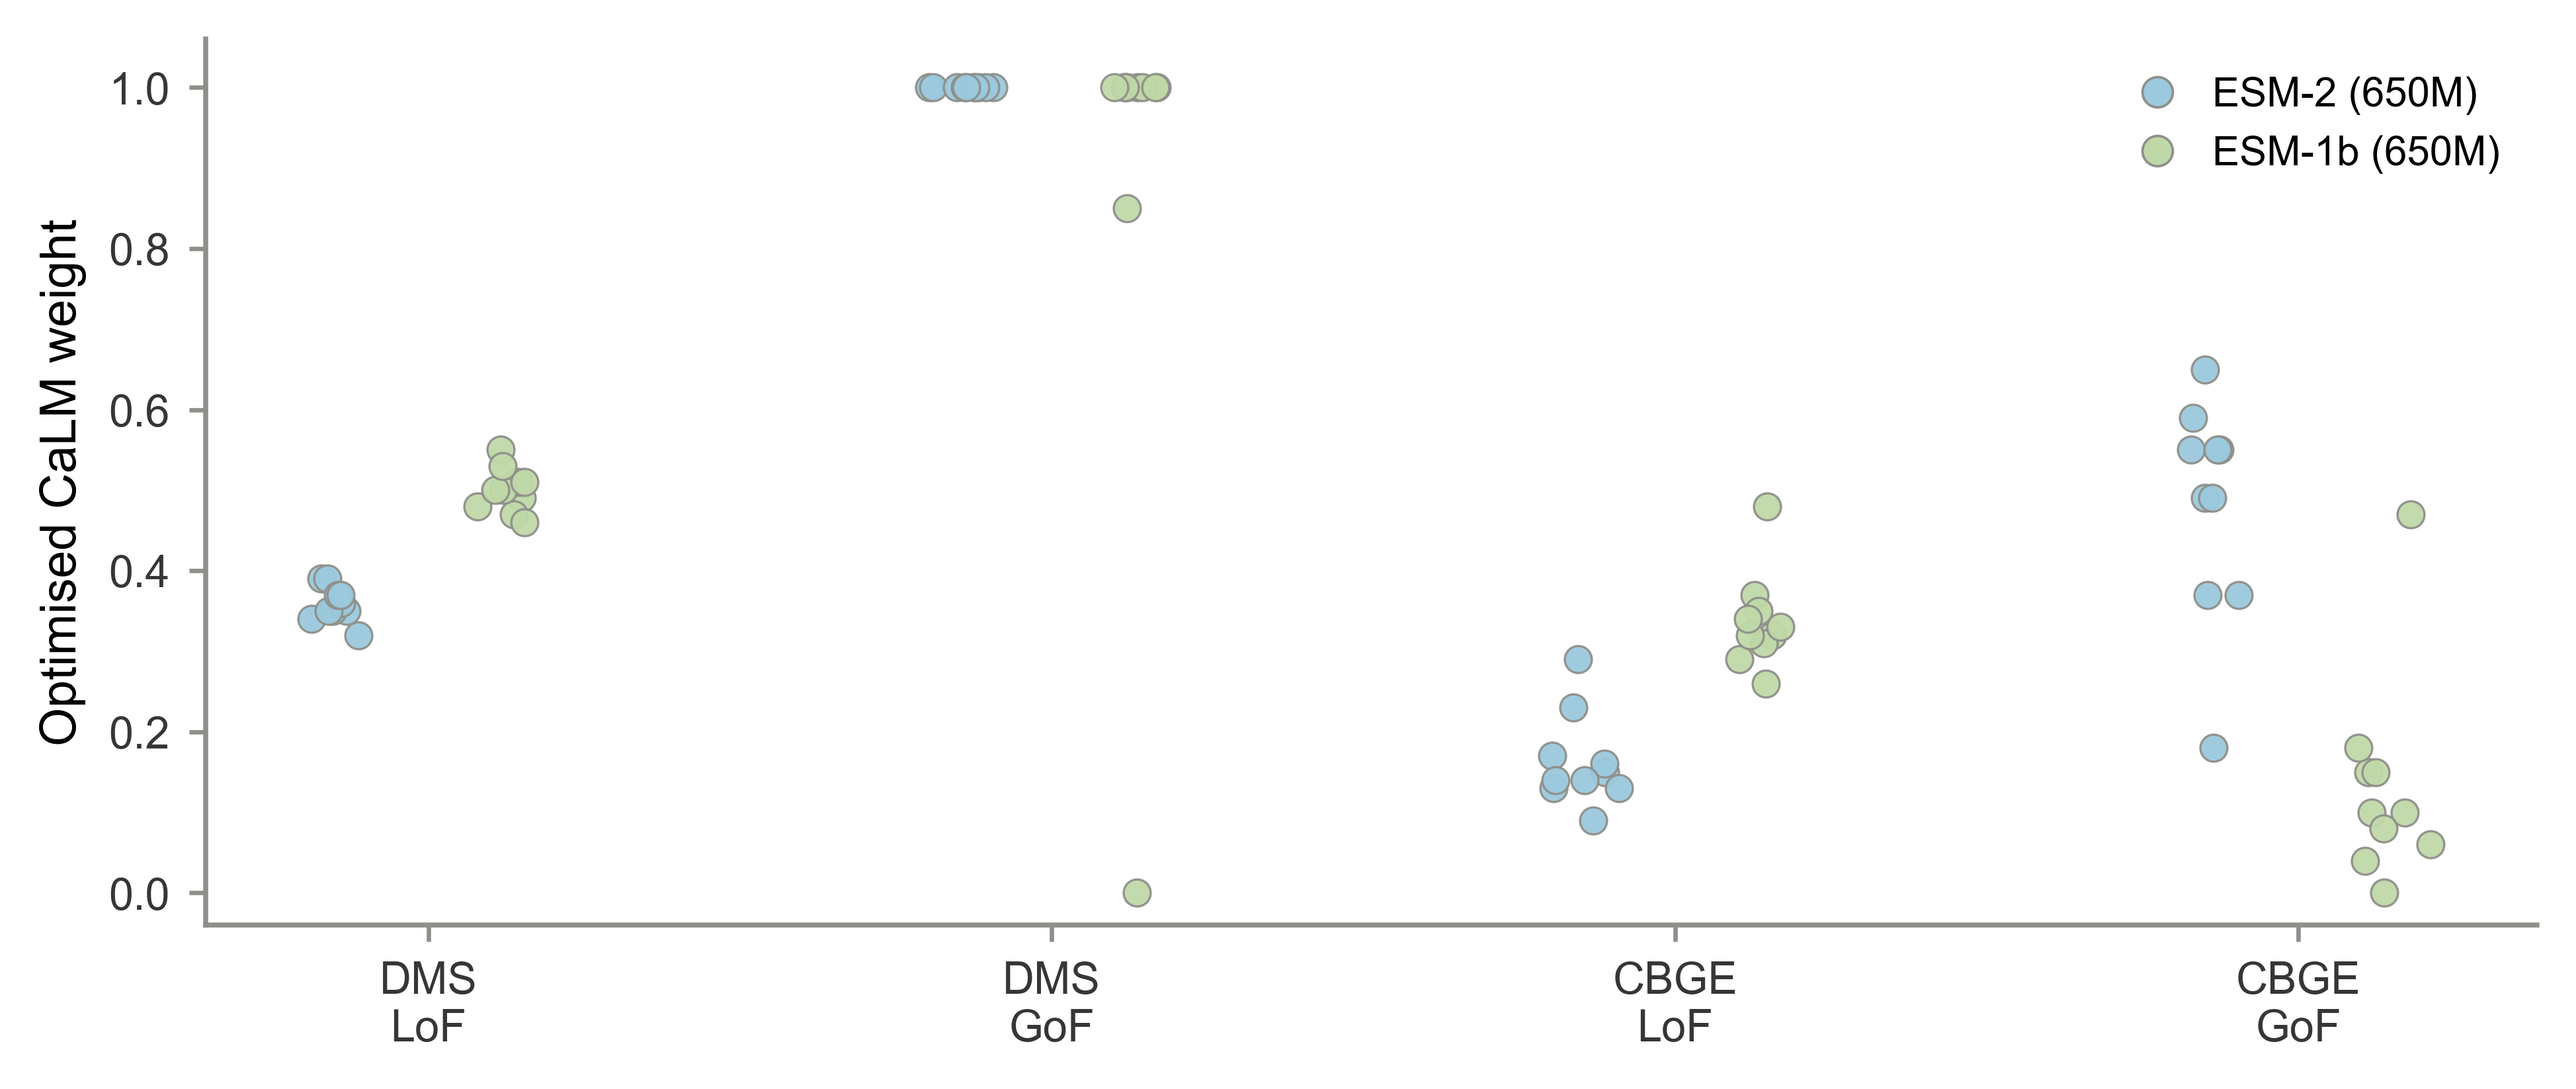
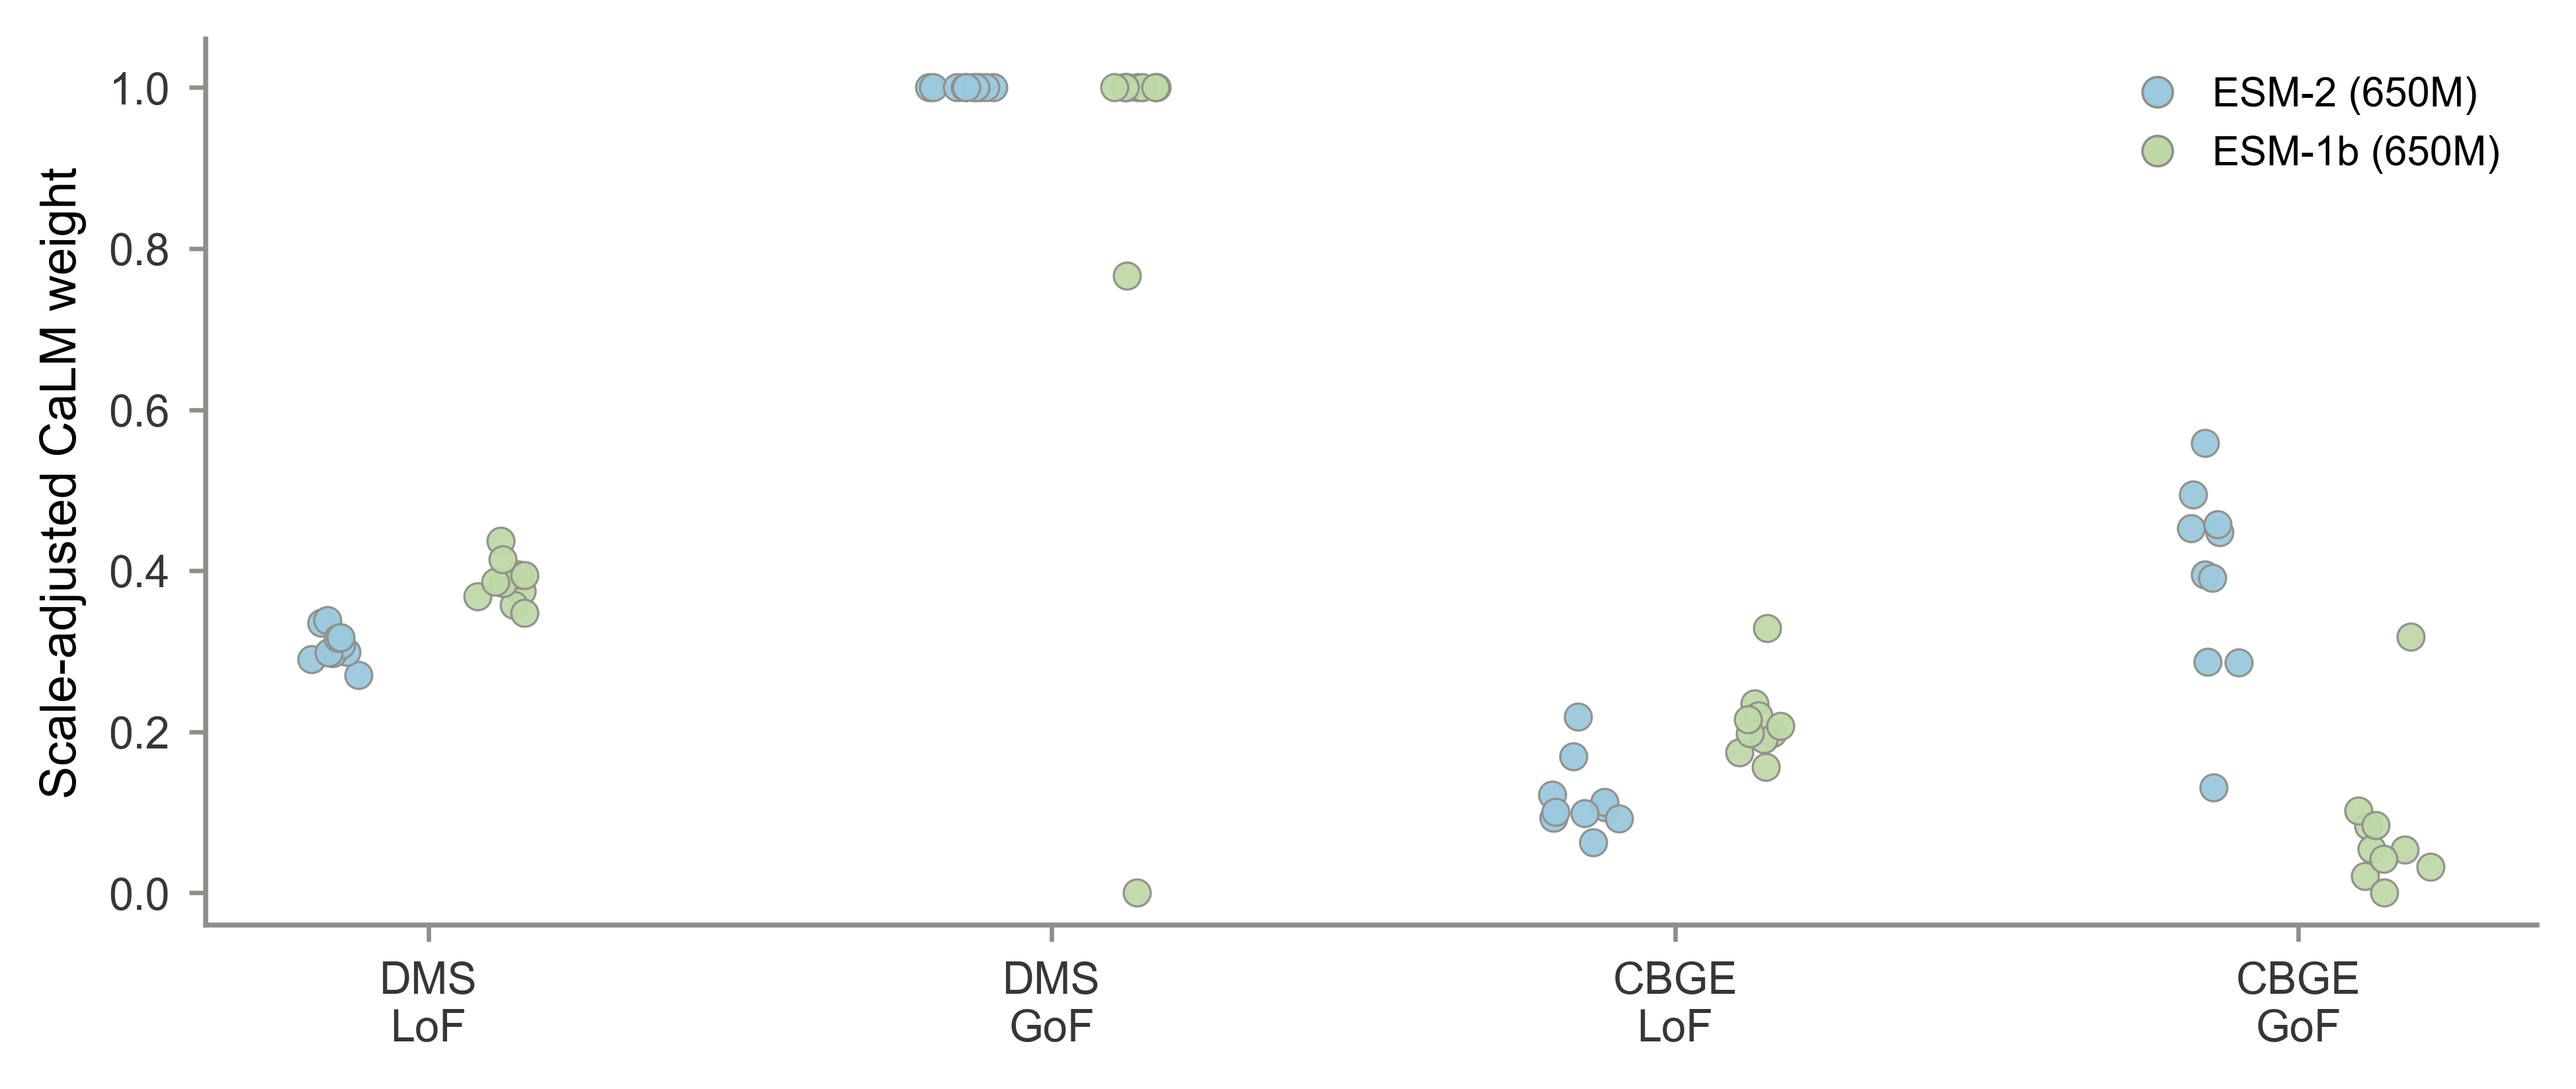
Update supplementary figures for scale-adjusted weights

diff --git a/plot/supplementary/s6_s7.py b/plot/supplementary/s6_s7.py
@@ -139,19 +139,23 @@ def plot_gof_deltas(folds: dict[str, pd.DataFrame], figure_path: Path) -> None:
     plt.close(fig)
 
 
-def plot_weights(folds: dict[str, pd.DataFrame], figure_path: Path) -> None:
+def plot_weights(folds: dict[str, pd.DataFrame], figure_path: Path, input_dir: Path) -> None:
     plt.rcParams.update({"font.family": "Arial", "font.size": 8, "axes.labelsize": 9})
     fig, ax = plt.subplots(figsize=(6.6, 2.9))
     labels = ["DMS\nLoF", "DMS\nGoF", "CBGE\nLoF", "CBGE\nGoF"]
     rng = np.random.default_rng(17)
+    standardized = pd.read_csv(input_dir / "fig3_standardized_equivalent_fold_weights.csv")
+    model_key = {"ESM-2 (650M)": "ESM-2 (650M)", "ESM-1b (650M)": "ESM-1b (650M)"}
     for offset, (model, config) in zip([-0.14, 0.14], MODELS.items()):
         for index, (assay, case_class) in enumerate(GROUPS):
-            values = folds[model][(folds[model]["assay"] == assay) & (folds[model]["case_class"] == case_class)]["calm_weight"].to_numpy(float)
+            values = standardized[(standardized["model"] == model_key[model]) &
+                                  (standardized["assay"] == assay) &
+                                  (standardized["case_class"] == case_class)]["standardized_equivalent_calm_weight"].to_numpy(float)
             x = np.full(len(values), index + offset) + rng.normal(0, 0.025, len(values))
             ax.scatter(x, values, s=24, color=config["color"], edgecolor=EDGE, linewidth=0.4, alpha=0.95, zorder=3)
     ax.set_xticks(range(len(GROUPS)))
     ax.set_xticklabels(labels)
-    ax.set_ylabel("Optimised CaLM weight")
+    ax.set_ylabel("Scale-adjusted CaLM weight")
     ax.set_ylim(-0.04, 1.06)
     legend_handles = [
         Line2D(
@@ -187,7 +191,7 @@ def main() -> None:
         table_dir / "clinmave_functional_class_results.csv", index=False
     )
     plot_gof_deltas(folds, figure_dir / "figS6.png")
-    plot_weights(folds, figure_dir / "figS7.png")
+    plot_weights(folds, figure_dir / "figS7.png", input_dir)
 
 
 if __name__ == "__main__":

diff --git a/plot/main/fig3.py b/plot/main/fig3.py
@@ -55,8 +55,14 @@ def load_data() -> tuple[pd.DataFrame, pd.DataFrame, pd.DataFrame]:
         df = pd.read_csv(path)
         df["model"] = model
         folds.append(df)
+    summary = pd.concat(summaries, ignore_index=True)
+    scale_path = BASE / "fig3_standardized_equivalent_weight_summary.csv"
+    scale = pd.read_csv(scale_path)
+    scale = scale.rename(columns={"model": "model_scale"})
+    summary = summary.merge(scale, left_on=["model", "assay", "case_class"],
+                            right_on=["model_scale", "assay", "case_class"], how="left")
     return (
-        pd.concat(summaries, ignore_index=True),
+        summary,
         pd.concat(folds, ignore_index=True),
         pd.read_csv(BOOTSTRAP_FILE),
     )
@@ -136,8 +142,8 @@ def collect_plot_rows(
                     "case_class": case_class,
                     "group_label": group_label.replace("\n", " "),
                     "model": model,
-                    "mean_calm_weight": row["mean_calm_weight"],
-                    "sd_calm_weight": row["sd_calm_weight"],
+                    "mean_calm_weight": row["mean_standardized_equivalent_calm_weight"],
+                    "sd_calm_weight": row["sd_standardized_equivalent_calm_weight"],
                     "delta_auroc_vs_plm": boot["pooled_oof_delta_auroc"],
                     "sd_delta_auroc_vs_plm": row[delta_sd],
                     "ci95_delta_low": boot["bootstrap_95ci_low"],
@@ -266,7 +272,7 @@ def main() -> None:
         plot_df,
         "mean_calm_weight",
         "sd_calm_weight",
-        "Optimised CaLM weight",
+        "Scale-adjusted CaLM weight",
         (0.0, 1.12),
         np.linspace(0.0, 1.0, 6),
         "A",

diff --git a/plot/supplementary/s1_s4.py b/plot/supplementary/s1_s4.py
@@ -594,7 +594,15 @@ def plot_weight_distribution(gene_folds: pd.DataFrame) -> None:
         ("w_esm1b_650m", "ESM-1b (650M)", COLORS["lilac"]),
         ("w_calm", "CaLM", COLORS["green"]),
     ]
-    sub = gene_folds[gene_folds["model"].isin(models)].copy()
+    standardized = pd.read_csv(MODEL_DIR / "standardized_equivalent_weights_by_fold.csv")
+    standardized = standardized[standardized["ensemble"].isin(models)].copy()
+    sub = standardized.pivot_table(index=["ensemble", "fold"], columns="component",
+                                   values="standardized_equivalent_weight", fill_value=0).reset_index()
+    for col, label, _ in component_cols:
+        component = {"w_esm2_150m":"ESM-2 150M", "w_esm2_650m":"ESM-2 650M",
+                     "w_esm1b_650m":"ESM-1b 650M", "w_calm":"CaLM"}[col]
+        sub[col] = sub.get(component, 0.0)
+    sub = sub.rename(columns={"ensemble": "model"})
     summary = (
         sub.groupby("model")[[col for col, _, _ in component_cols]]
         .agg(["mean", "std"])
@@ -619,8 +627,8 @@ def plot_weight_distribution(gene_folds: pd.DataFrame) -> None:
         ax.set_xticklabels([label for _, label, _ in component_cols], rotation=38, ha="right", fontsize=6.3)
         ax.set_ylim(-0.03, 1.03)
         format_ax(ax)
-    axes[0, 0].set_ylabel("Optimized weight")
-    axes[1, 0].set_ylabel("Optimized weight")
+    axes[0, 0].set_ylabel("Scale-adjusted weight")
+    axes[1, 0].set_ylabel("Scale-adjusted weight")
     fig.tight_layout(w_pad=0.65, h_pad=0.85)
     fig.savefig(FIG_DIR / "figS4.png", dpi=600, bbox_inches="tight")
     plt.close(fig)

diff --git a/plot/supplementary/s8.py b/plot/supplementary/s8.py
@@ -99,6 +99,12 @@ def panel(
 def main() -> None:
     setup()
     df = pd.read_csv(DATA)
+    scale = pd.read_csv("Results/ClinVar/gene_level/fig6_standardized_equivalent_weight_summary.csv")
+    for model, target in [("ESM-2 650M + CaLM", "esm2_calm_weight"), ("ESM-1b 650M + CaLM", "esm1b_calm_weight")]:
+        sub = scale[scale["model"] == model][["gene", "mean_standardized_equivalent_calm_weight"]]
+        df = df.merge(sub, on="gene", how="left")
+        df[target] = df["mean_standardized_equivalent_calm_weight"]
+        df = df.drop(columns=["mean_standardized_equivalent_calm_weight"])
     stats = pd.read_csv(STATS).set_index("analysis")
     esm1b_adjusted = stats.loc["esm1b_calm_auroc_predicts_gain_adjusting_for_plm_auroc"]
     plm_control_adjusted = stats.loc[
@@ -111,7 +117,7 @@ def main() -> None:
         df,
         "esm1b_calm_weight",
         "esm1b_gain_over_protein",
-        r"$\bar{w}_g$",
+        r"$\bar{w}^{\mathrm{scale}}_g$",
         r"$\Delta\mathrm{AUROC}_{+\mathrm{CaLM}}$",
         "ESM-1b (650M)",
     )
@@ -132,7 +138,7 @@ def main() -> None:
         df,
         "esm2_calm_weight",
         "esm2_cross_modal_advantage",
-        r"$\bar{w}_g$",
+        r"$\bar{w}^{\mathrm{scale}}_g$",
         r"$\Delta\mathrm{AUROC}_{\mathrm{adv}}$",
         "PLM+PLM control",
     )
